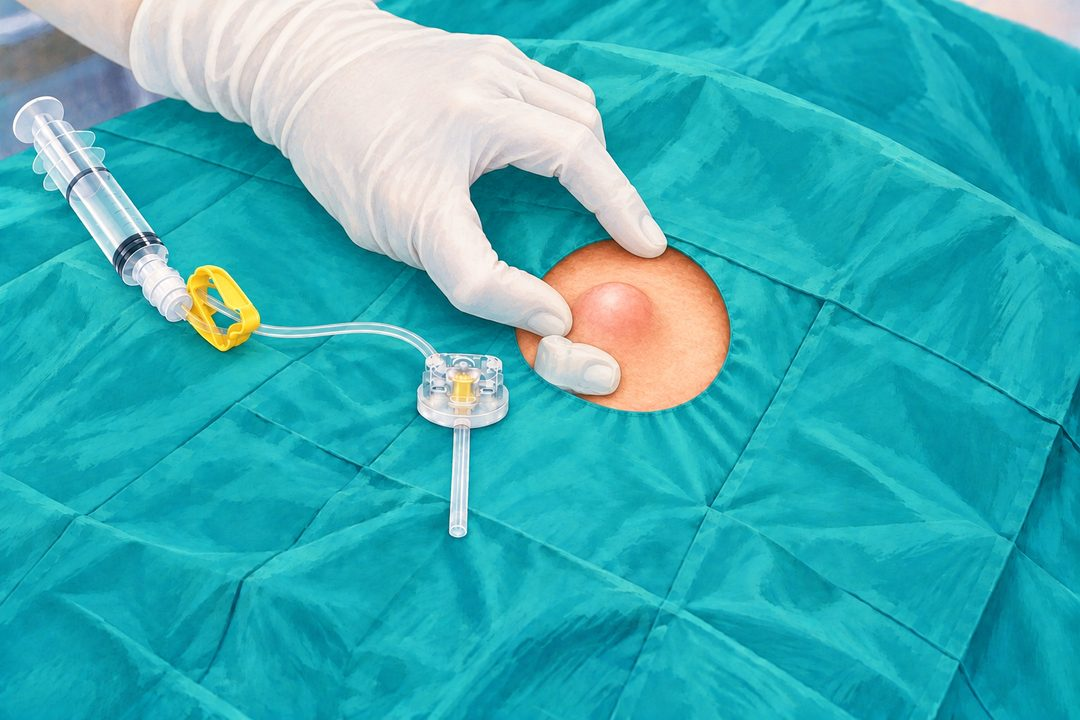
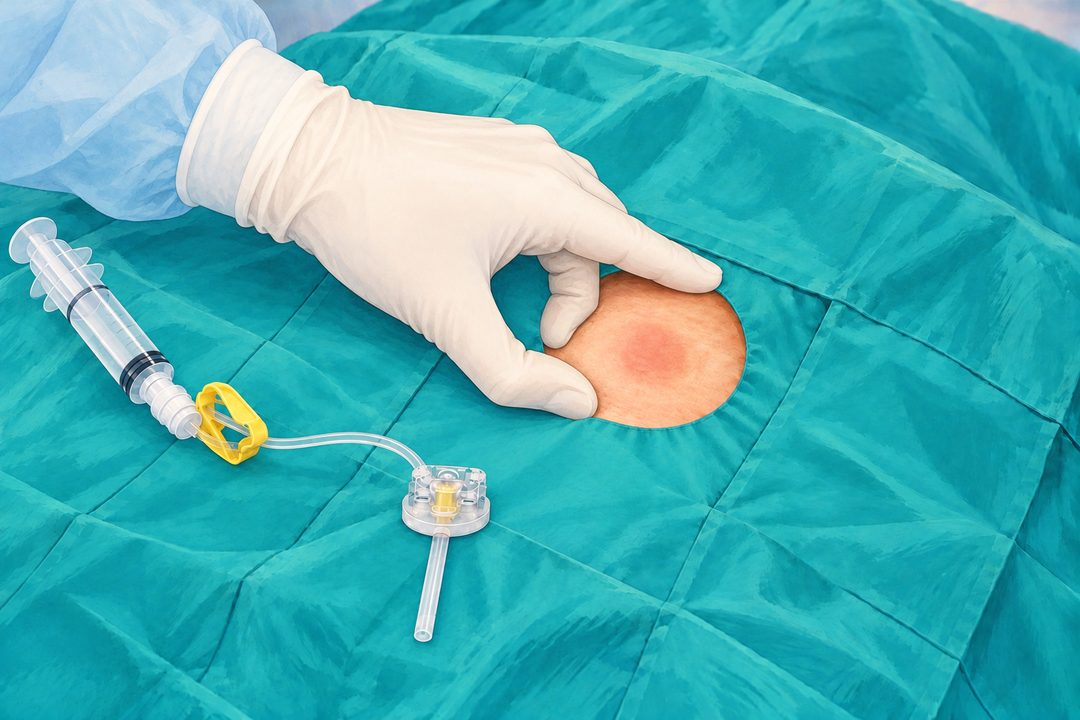
lab: redrawn left-hand fixation, larger clamp inset, tick-tock metronome

diff --git a/docs/lab.html b/docs/lab.html
@@ -593,16 +593,16 @@ function runStation(pane, L){
   /* 推-停節拍聲：每一拍＝推一次；拍速記在瀏覽器 */
   let metT = null, BPM = 67;
   try{ BPM = +localStorage.getItem("chemo-lab-bpm2") || 67; }catch(e){}
-  /* 推的那一段發出持續的聲音（長度＝推幾秒），停的那一段安靜 */
-  const tone = (f, d) => { try{ AC = AC || new (window.AudioContext || window.webkitAudioContext)(); const o = AC.createOscillator(), g = AC.createGain(); o.frequency.value = f; g.gain.setValueAtTime(.07, AC.currentTime); g.gain.setValueAtTime(.07, AC.currentTime + d - .03); g.gain.linearRampToValueAtTime(0, AC.currentTime + d); o.connect(g); g.connect(AC.destination); o.start(); o.stop(AC.currentTime + d); }catch(e){} };
+  /* 節拍聲「滴答」（10/25 使用者）：推的開始「滴」（高、短）、停的開始「答」（低、短） */
+  const click = (f, at) => { try{ AC = AC || new (window.AudioContext || window.webkitAudioContext)(); const t = AC.currentTime + at, o = AC.createOscillator(), g = AC.createGain(); o.type = "triangle"; o.frequency.value = f; g.gain.setValueAtTime(.0001, t); g.gain.exponentialRampToValueAtTime(.35, t + .004); g.gain.exponentialRampToValueAtTime(.0001, t + .06); o.connect(g); g.connect(AC.destination); o.start(t); o.stop(t + .07); }catch(e){} };
   function stopMet(){ if(metT){ clearInterval(metT); metT = null; } }
   function startMet(){
     stopMet();
     const s = st(), pre = (s.beat || []).find(b => b.bpm === BPM), push = Math.min(pre ? pre.push : .5, 60 / BPM * .6);
-    const tick = () => { if(ctl.paused) return; tone(880, push); const d = $("#metdot"); if(d){ d.classList.add("on"); setTimeout(() => d.classList.remove("on"), push * 1000); } };
+    const tick = () => { if(ctl.paused) return; click(1800, 0); click(1100, push); const d = $("#metdot"); if(d){ d.classList.add("on"); setTimeout(() => d.classList.remove("on"), push * 1000); } };
     tick(); metT = setInterval(tick, 60000 / BPM);
   }
-  const metHtml = s => `<div class="met"><div class="row"><button class="btn ghost" data-b="r:met">${metT ? "🔇 關掉節拍聲" : "🔊 播放節拍聲（有聲音時推、安靜時停）"}</button><span id="metdot" class="metdot"></span><b id="bpmv">${BPM} 次/分</b></div>
+  const metHtml = s => `<div class="met"><div class="row"><button class="btn ghost" data-b="r:met">${metT ? "🔇 關掉節拍聲" : "🔊 播放節拍聲（聽到「滴」推、聽到「答」停）"}</button><span id="metdot" class="metdot"></span><b id="bpmv">${BPM} 次/分</b></div>
     <div class="row" style="margin-top:6px"><select id="bpmsel">${s.beat.map(b => `<option value="${b.bpm}"${b.bpm === BPM ? " selected" : ""}>${b.t}</option>`).join("")}<option value="0"${s.beat.some(b => b.bpm === BPM) ? "" : " selected"}>自訂（拉右邊滑桿）</option></select>
     <input type="range" id="bpmr" min="40" max="180" step="5" value="${BPM}" aria-label="每分鐘推幾次"></div><div class="note">${s.beatRef}</div></div>`;
   function wireMet(){
@@ -1096,9 +1096,10 @@ const PAD_SCENE = `<rect width="360" height="240" fill="#fbfaf8"/>${PSEC_DEF}<sv
 const Z_CLAMP = {x: 195, y: 94};   // I17／L4-clamp 圖上黃色管夾的位置
 /* 管夾放大圓圈：直接用 MAKAR 選項圖 A3 對照總表圓圈內的放大圖（關閉＝A3-A、打開＝A3-C；10/25 使用者指定）
    open 為真顯示打開；(x, y) 圓圈位置、c 管夾位置（拉一條線過去） */
+/* 情境圖裡的管夾被手遮住一部分、不明顯，所以放大圓圈畫大一點，讓學員看圓圈（10/25 使用者） */
 const INSET = (open, x, y, c) => `<line x1="${c.x}" y1="${c.y}" x2="${x}" y2="${y}" stroke="#e0a800" stroke-width="2"/>
-  <circle cx="${x}" cy="${y}" r="41" fill="#fff" stroke="#e0a800" stroke-width="3"/><image href="images/lab/clamp-${open ? "open" : "closed"}.png" x="${x - 39}" y="${y - 39}" width="78" height="78"/>
-  <rect x="${x - 30}" y="${y + 44}" width="60" height="16" rx="8" fill="${open ? "#1f9d55" : "rgba(20,30,35,.78)"}"/><text x="${x}" y="${y + 56}" font-size="10" text-anchor="middle" fill="#fff" font-weight="700">${open ? "管夾打開" : "管夾關閉"}</text>`;
+  <circle cx="${x}" cy="${y}" r="54" fill="#fff" stroke="#e0a800" stroke-width="3.5"/><image href="images/lab/clamp-${open ? "open" : "closed"}.png" x="${x - 52}" y="${y - 52}" width="104" height="104"/>
+  <rect x="${x - 30}" y="${y + 50}" width="60" height="16" rx="8" fill="${open ? "#1f9d55" : "rgba(20,30,35,.78)"}"/><text x="${x}" y="${y + 62}" font-size="10" text-anchor="middle" fill="#fff" font-weight="700">${open ? "管夾打開" : "管夾關閉"}</text>`;
 LABS.push({id: "insert", icon: "📍", title: "Port-A 角針置放", items: [13, 14, 15, 16, 17, 18], finImg: "outcomes/A-O7.jpg",
   desc: "三點持針、固定圓盤、深呼吸垂直插入、反抽看全血、推-停沖管、正壓封管。",
   steps: [
@@ -1115,7 +1116,7 @@ LABS.push({id: "insert", icon: "📍", title: "Port-A 角針置放", items: [13,
       okMsg: "角針與盤面垂直（90 度），針尖才會到達圓盤底部。"},
     {type: "taps", bg: "I05.jpg", item: 14, task: "先<b>觸摸 Port-A 圓盤邊緣</b>，再用<b>非慣用手（左手）</b>依序以大拇指、食指、中指固定盤面（依序點畫面上的圓圈）。",
       tapImg: {edge: "lab/L4-fix.jpg"},
-      spots: [{id: "edge", x: 230, y: 108, label: "觸摸圓盤邊緣", lp: "right"}, {id: "th", x: 202, y: 126, label: "拇指", need: "edge"}, {id: "ix", x: 220, y: 81, label: "食指", need: "edge", lp: "up"}, {id: "md", x: 186, y: 106, label: "中指", need: "edge", lp: "left"}],
+      spots: [{id: "edge", x: 246, y: 118, label: "觸摸圓盤邊緣", lp: "right"}, {id: "th", x: 195, y: 136, label: "拇指", need: "edge"}, {id: "ix", x: 239, y: 92, label: "食指", need: "edge", lp: "up"}, {id: "md", x: 186, y: 114, label: "中指", need: "edge", lp: "left"}],
       order: ["edge", "th", "ix", "md"], orderMsg: "觸摸圓盤邊緣後，依序用大拇指、食指、中指固定盤面。", why: {th: "先觸摸 Port-A 圓盤邊緣，確認圓盤在哪裡，再用三指固定。", ix: "先觸摸 Port-A 圓盤邊緣，確認圓盤在哪裡，再用三指固定。", md: "先觸摸 Port-A 圓盤邊緣，確認圓盤在哪裡，再用三指固定。"},
       okMsg: "非慣用手大拇指、食指、中指用力固定盤面，盤面不會滑動。"},
     {type: "seq", bg: "lab/L4-fix.jpg", okScene: PAD_SCENE, item: 15, task: "插入角針：依序點選動作。", opts: [
@@ -1123,7 +1124,7 @@ LABS.push({id: "insert", icon: "📍", title: "Port-A 角針置放", items: [13,
       orders: [["br", "in", "pad"]],
       why: {in: "先請病人深呼吸，再將角針垂直快速插入。", pad: "角針插入圓盤底部以後，墊片才下壓平貼皮膚。", press: "角針插入至底部後，勿再用力強壓，避免角針前端變鈍。"},
       okMsg: "請病人深呼吸 → 垂直快速插入圓盤底部 → 墊片下壓平貼皮膚。"},
-    {type: "taps", bg: "I17.jpg", after: "lab/L4-clamp.jpg", overlay: S => INSET(S.ok, 292, 60, Z_CLAMP), spots: [{id: "clamp", x: Z_CLAMP.x, y: Z_CLAMP.y, label: "黃色管夾"}], order: ["clamp"], okMsg: "管夾打開了：延長管移到管夾的大圓孔，沒有被夾扁。",
+    {type: "taps", bg: "I17.jpg", after: "lab/L4-clamp.jpg", overlay: S => INSET(S.ok, 296, 64, Z_CLAMP), spots: [{id: "clamp", x: Z_CLAMP.x, y: Z_CLAMP.y, label: "黃色管夾"}], order: ["clamp"], okMsg: "管夾打開了：延長管移到管夾的大圓孔，沒有被夾扁。",
       task: "要反抽測試了。先點<b>黃色管夾</b>，把管夾打開。"},
     {type: "hold", bg: "lab/L4-clamp.jpg", after: "I16.jpg", task: "以 <b>10 mL 注射器反抽</b>，測試是否通暢及回血。", label: "按住＝往後拉活塞（反抽）", ms: 1800,
       okMsg: "回血順暢，顏色是暗紅色的全血。"},
@@ -1141,7 +1142,7 @@ LABS.push({id: "insert", icon: "📍", title: "Port-A 角針置放", items: [13,
       start: 1, by: .5, keep: [.5, 1], zero: {acc: ACC.back}, okMsg: "保留 NS 0.5–1 mL，沒有全部推完，管內維持正壓。"},
     {type: "hold", bg: "lab/L4-clamp.jpg", silent: true, skipIf: S => S.mode !== "m2", task: "方法二：以<b>大拇指壓住針筒活塞</b>，維持正壓。",
       label: "按住＝大拇指壓住活塞", ms: 1500, early: "大拇指要一直壓住活塞，進度條跑滿才放手。", okMsg: "大拇指壓住針筒活塞，管內維持正壓。"},
-    {type: "taps", bg: "lab/L4-clamp.jpg", after: "I17.jpg", overlay: S => INSET(!S.ok, 292, 60, Z_CLAMP), spots: [{id: "clamp", x: Z_CLAMP.x, y: Z_CLAMP.y, label: "黃色管夾"}], order: ["clamp"],
+    {type: "taps", bg: "lab/L4-clamp.jpg", after: "I17.jpg", overlay: S => INSET(!S.ok, 296, 64, Z_CLAMP), spots: [{id: "clamp", x: Z_CLAMP.x, y: Z_CLAMP.y, label: "黃色管夾"}], order: ["clamp"],
       task: "維持正壓，<b>關閉管夾</b>（點黃色管夾）。", btns: [{t: "先把注射器拔掉，再關管夾", acc: ACC.back}], okMsg: "維持正壓的狀態下，關閉管夾。"},
     {type: "hold", bg: "I17.jpg", after: "outcomes/A-O7.jpg", item: 18, task: "管夾關好了。<b>緩慢移除</b>針筒／注射器。",
       label: "按住＝緩慢移除注射器", ms: 2000, early: "要「緩慢」移除，進度條跑滿才放手。", okMsg: "正壓封管完成：先維持正壓 → 關閉管夾 → 再緩慢移除注射器。"},
@@ -1163,7 +1164,7 @@ LABS.push({id: "remove", icon: "🔚", title: "Port-A 角針移除", items: [19,
     {type: "drag", bg: "I15.jpg", after: "outcomes/C-O1.jpg", task: "採無菌技術接上 <b>NS 10 mL 注射器</b>。",
       tray: ["S33", "S15"], zones: [{id: "cn", r: Z_CN, label: "Port-A 接頭"}], goal: [["S33", "cn"]],
       wrong: {S15: "要用 NS 10 mL 注射器（或與 10 mL 注射器針筒管徑相同）。"}, okMsg: "接上 NS 10 mL 注射器了。"},
-    {type: "taps", bg: "outcomes/C-O1.jpg", after: "lab/C-O1-open.jpg", overlay: S => INSET(S.ok, 78, 176, Z_CLAMP5), spots: [{id: "clamp", x: Z_CLAMP5.x, y: Z_CLAMP5.y, label: "黃色管夾"}], order: ["clamp"],
+    {type: "taps", bg: "outcomes/C-O1.jpg", after: "lab/C-O1-open.jpg", overlay: S => INSET(S.ok, 74, 160, Z_CLAMP5), spots: [{id: "clamp", x: Z_CLAMP5.x, y: Z_CLAMP5.y, label: "黃色管夾"}], order: ["clamp"],
       task: "要反抽測試了。先點<b>黃色管夾</b>，把管夾打開。", okMsg: "管夾打開了。"},
     {type: "hold", bg: "lab/C-O1-open.jpg", after: "lab/C-O1-blood.jpg", task: "<b>反抽</b>測試回血。", label: "按住＝往後拉活塞（反抽）", ms: 1500, okMsg: "有回血。"},
     {type: "rhythm", bg: "lab/C-O1-blood.jpg", after: "lab/C-O1-open.jpg", item: 19, task: "再以<b>推-停-推-停</b>方式將管壁沖洗乾淨。每按一次「推」＝推 1 mL。", n: 10, ml: 1, beat: BEAT, beatRef: BEAT_REF, media: FLUSH_MEDIA,
@@ -1178,7 +1179,7 @@ LABS.push({id: "remove", icon: "🔚", title: "Port-A 角針移除", items: [19,
       start: 3, by: .5, keep: [.4, .9], keepMsg: "要推到剩餘「小於 1 mL」才停。", zero: {acc: ACC.back}, okMsg: "推注到剩餘小於 1 mL，沒有全部推完，管內維持正壓。"},
     {type: "hold", bg: "lab/C-O1-open.jpg", silent: true, skipIf: S => S.mode !== "m2", task: "方法一：Heparinized saline 推注完畢，<b>大拇指持續壓住針筒活塞</b>。",
       label: "按住＝大拇指壓住活塞", ms: 1500, early: "大拇指要持續壓住活塞，進度條跑滿才放手。", okMsg: "大拇指持續壓住針筒活塞，管內維持正壓。"},
-    {type: "taps", bg: "lab/C-O1-open.jpg", after: "outcomes/C-O1.jpg", item: 20, overlay: S => INSET(!S.ok, 78, 176, Z_CLAMP5), spots: [{id: "clamp", x: Z_CLAMP5.x, y: Z_CLAMP5.y, label: "黃色管夾"}], order: ["clamp"],
+    {type: "taps", bg: "lab/C-O1-open.jpg", after: "outcomes/C-O1.jpg", item: 20, overlay: S => INSET(!S.ok, 74, 160, Z_CLAMP5), spots: [{id: "clamp", x: Z_CLAMP5.x, y: Z_CLAMP5.y, label: "黃色管夾"}], order: ["clamp"],
       task: "維持正壓，<b>關閉管夾</b>（點黃色管夾）。", btns: [{t: "先放開活塞／把剩下的全部推完，再關管夾", acc: ACC.back}], okMsg: "注入 Heparinized saline 後，維持正壓夾住管夾。"},
     {type: "seq", bg: "outcomes/C-X2.jpg", task: "準備移除角針（BD 安全性賀伯注射針組）：依序點選。", opts: [
         {id: "l", t: "左手（非慣用手）大拇指、食指固定注射針座盤"}, {id: "r", t: "右手（慣用手）大拇指與食指緊握安全針具握柄"},
